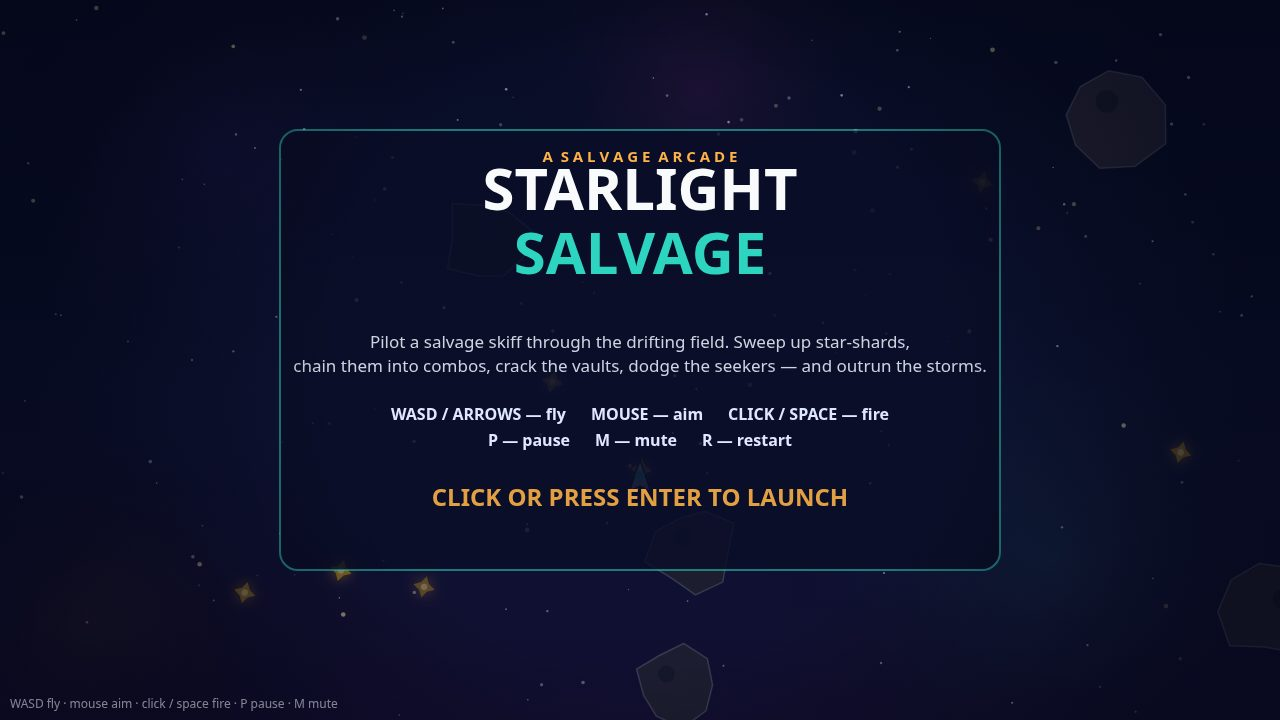
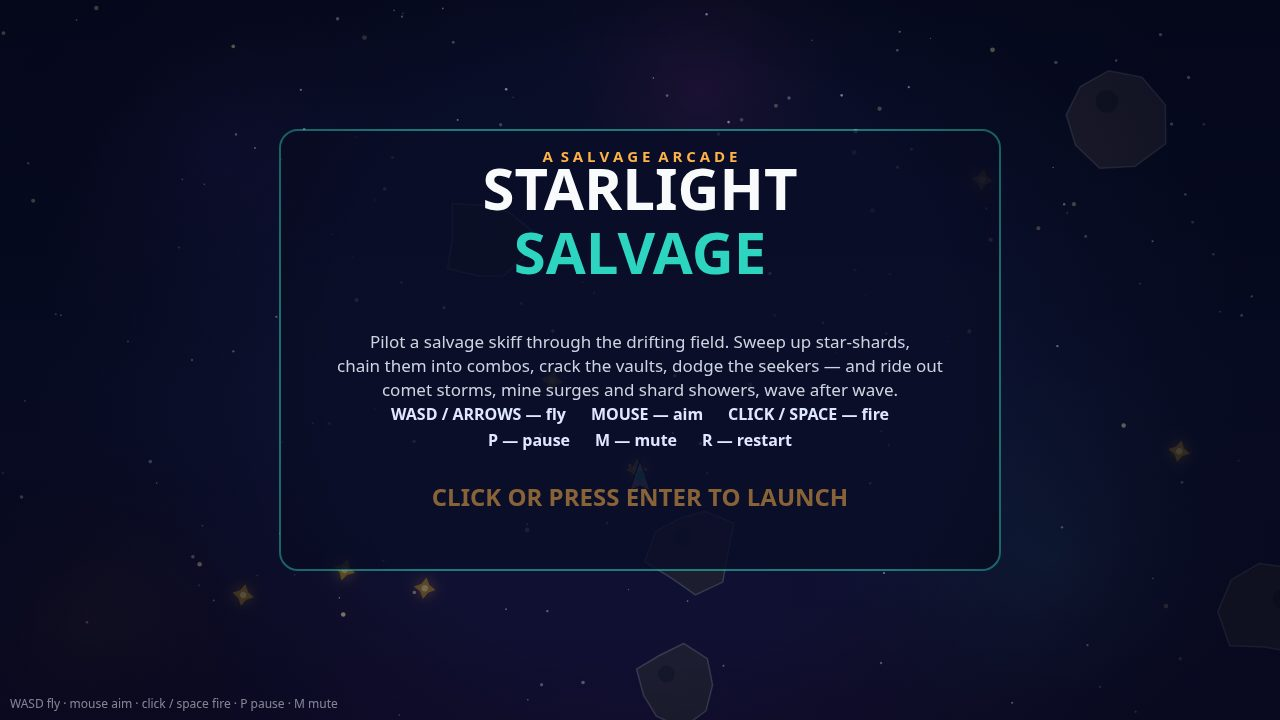
Starlight Salvage v3: wave cycle, telegraphed hunter lunge, nova pickup
- Waves now cycle three themes: comet storm every 3rd wave, mine surge
  on %3==1, shard shower on %3==2, with the theme named under WAVE in
  the HUD and announced by a centre banner
- Seeker drones telegraph their lunge: a 0.4s wind-up shown by a pulsing
  red ring, then a wave-scaled lunge (1.18x at wave 2 up to 1.39x at
  wave 8+) instead of a flat instant 1.25x
- Nova pickup: detonates every mine and hunter on the field at once,
  each still paying its points, with flash and shake
- Title copy names the wave cycle; play shot staged at wave 5 (shard
  shower) with a nova pickup in frame
- Play-test 20/20 with zero page errors (4 new checks), screenshots
  re-taken and viewed, main.ts twice byte-identical

Changed region(s): [[0.2188, 0.4889, 0.7812, 0.55], [0.3125, 0.6722, 0.6562, 0.7028]]

diff --git a/game/src/enemies.js b/game/src/enemies.js
@@ -94,7 +94,7 @@ export function updateEnemies(state, dt, audio, spawnParticles, addText, onGameO
           // One in eight mines drops a pickup.
           if (state.rng() < 0.12) {
             const roll = state.rng();
-            spawnPickup(state, roll < 0.34 ? 'shield' : roll < 0.67 ? 'overdrive' : 'magnet');
+            spawnPickup(state, roll < 0.28 ? 'shield' : roll < 0.52 ? 'overdrive' : roll < 0.76 ? 'magnet' : 'nova');
           }
         }
         break;
@@ -218,9 +218,37 @@ export function updateEnemies(state, dt, audio, spawnParticles, addText, onGameO
     const pk = state.pickups[i];
     const rr = pk.r + p.r;
     if (dist2(pk.x, pk.y, p.x, p.y) < rr * rr) {
-      applyPickup(state, pk.kind, audio);
-      addText(pk.x, pk.y - 12, pk.kind === 'shield' ? 'SHIELD UP' : 'OVERDRIVE', '#2dd4bf');
-      spawnParticles('spark', pk.x, pk.y, 0, 0, '#2dd4bf');
+      if (pk.kind === 'nova') {
+        // Nova: every mine and hunter on the field detonates at once, and
+        // each one still pays its points. The flash is the point.
+        let cleared = 0;
+        for (let j = state.mines.length - 1; j >= 0; j--) {
+          const m = state.mines[j];
+          spawnParticles('burst', m.x, m.y, 0, 0, '#f59e0b');
+          addScore(state, m.heavy ? 250 : 100);
+          state.minesDestroyed += 1;
+          removeAt(state.mines, j);
+          cleared++;
+        }
+        for (let j = state.hunters.length - 1; j >= 0; j--) {
+          const h = state.hunters[j];
+          spawnParticles('burst', h.x, h.y, 0, 0, '#ef4444');
+          addScore(state, 200);
+          removeAt(state.hunters, j);
+          cleared++;
+        }
+        state.flash = 0.3;
+        state.shake = Math.max(state.shake, 12);
+        showMessage(state, 'NOVA!  ' + cleared + ' CLEARED', 1.6);
+        audio.explosion(true);
+        addText(pk.x, pk.y - 12, 'NOVA!', '#fbbf24');
+        spawnParticles('burst', pk.x, pk.y, 0, 0, '#fbbf24');
+      } else {
+        applyPickup(state, pk.kind, audio);
+        const label = pk.kind === 'shield' ? 'SHIELD UP' : pk.kind === 'magnet' ? 'MAGNET!' : 'OVERDRIVE';
+        addText(pk.x, pk.y - 12, label, '#2dd4bf');
+        spawnParticles('spark', pk.x, pk.y, 0, 0, '#2dd4bf');
+      }
       removeAt(state.pickups, i);
     }
   }
@@ -325,9 +353,9 @@ export function drawPickup(ctx, pk) {
   ctx.translate(pk.x, pk.y);
   const bob = Math.sin(pk.phase) * 2;
   ctx.translate(0, bob);
-  ctx.shadowColor = '#2dd4bf';
+  ctx.shadowColor = pk.kind === 'nova' ? '#f59e0b' : '#2dd4bf';
   ctx.shadowBlur = 12;
-  ctx.fillStyle = pk.kind === 'shield' ? '#0d9488' : pk.kind === 'magnet' ? '#7c3aed' : '#db2777';
+  ctx.fillStyle = pk.kind === 'shield' ? '#0d9488' : pk.kind === 'magnet' ? '#7c3aed' : pk.kind === 'nova' ? '#b45309' : '#db2777';
   ctx.beginPath();
   ctx.arc(0, 0, pk.r, 0, Math.PI * 2);
   ctx.fill();
@@ -339,7 +367,7 @@ export function drawPickup(ctx, pk) {
   ctx.font = 'bold 13px system-ui, sans-serif';
   ctx.textAlign = 'center';
   ctx.textBaseline = 'middle';
-  ctx.fillText(pk.kind === 'shield' ? 'S' : pk.kind === 'magnet' ? 'M' : 'O', 0, 1);
+  ctx.fillText(pk.kind === 'shield' ? 'S' : pk.kind === 'magnet' ? 'M' : pk.kind === 'nova' ? 'N' : 'O', 0, 1);
   ctx.restore();
 }
 

diff --git a/game/src/hunter.js b/game/src/hunter.js
@@ -11,6 +11,14 @@ const BASE_SPEED = 150;
 const SPEED_PER_WAVE = 9;
 const MAX_SPEED = 245;
 const TURN_RATE = 2.6;
+// Lunge wind-up: a seeker that closes in must telegraph for 0.4 s before
+// it shoots forward, so the lunge is always dodgeable — and it bites
+// harder as the waves climb.
+const LUNGE_RANGE = 260;
+const LUNGE_WINDUP = 0.4;
+const LUNGE_BASE = 1.15;
+const LUNGE_PER_WAVE = 0.03;
+const LUNGE_MAX_WAVE = 8;
 
 export function createHunter(state, x, y) {
   const speed = Math.min(BASE_SPEED + state.wave * SPEED_PER_WAVE, MAX_SPEED);
@@ -23,10 +31,13 @@ export function createHunter(state, x, y) {
     wobble: state.rng() * Math.PI * 2,
     rot: 0,
     pulse: 0,
+    lungeT: 0,
   };
 }
 
 // Steer toward the skiff, capped turn rate, sine wobble on the heading.
+// Inside lunge range the drone winds up for LUNGE_WINDUP seconds (the ring
+// in drawHunter shows it), then shoots in at a wave-scaled speed.
 export function updateHunters(state, dt) {
   const p = state.player;
   if (!p) return;
@@ -36,7 +47,13 @@ export function updateHunters(state, dt) {
     const turn = clamp(diff, -TURN_RATE * dt, TURN_RATE * dt);
     h.angle += turn;
     h.wobble += dt * 3.1;
-    const lunge = Math.hypot(p.x - h.x, p.y - h.y) < 260 ? 1.25 : 1;
+    if (Math.hypot(p.x - h.x, p.y - h.y) < LUNGE_RANGE) {
+      h.lungeT = (h.lungeT || 0) + dt;
+    } else {
+      h.lungeT = 0;
+    }
+    const lungeMax = LUNGE_BASE + Math.min(state.wave, LUNGE_MAX_WAVE) * LUNGE_PER_WAVE;
+    const lunge = h.lungeT > LUNGE_WINDUP ? lungeMax : 1;
     const wob = Math.sin(h.wobble) * 0.35;
     h.x += Math.cos(h.angle + wob) * h.speed * lunge * dt;
     h.y += Math.sin(h.angle + wob) * h.speed * lunge * dt;
@@ -79,6 +96,19 @@ export function drawHunter(ctx, h, time) {
   ctx.arc(6, 0, 3.4, 0, Math.PI * 2);
   ctx.fill();
   ctx.restore();
+  // Lunge wind-up: while the drone is winding up, a pulsing red ring warns
+  // the skiff before it shoots in.
+  const lt = h.lungeT || 0;
+  if (lt > 0 && lt <= 0.4) {
+    ctx.save();
+    ctx.globalAlpha = 0.45 + Math.sin(h.pulse * 3) * 0.25;
+    ctx.strokeStyle = '#ef4444';
+    ctx.lineWidth = 2;
+    ctx.beginPath();
+    ctx.arc(h.x, h.y, 22 + Math.sin(h.pulse * 3) * 3, 0, Math.PI * 2);
+    ctx.stroke();
+    ctx.restore();
+  }
   // Damaged hunters spark: one hit left is visible from across the field.
   if (h.hp === 1) {
     ctx.save();

diff --git a/game/src/hud.js b/game/src/hud.js
@@ -103,7 +103,7 @@ export function drawHud(ctx, state) {
     ctx.fillText('COMBO x' + state.combo, 20, 70);
     bar(ctx, 20, 98, 120, 8, state.comboTimer / COMBO_WINDOW, '#ffb347');
   }
-  // Wave and shards, top centre.
+  // Wave and shards, top centre — with the wave's theme underneath.
   ctx.textAlign = 'center';
   ctx.fillStyle = '#e0e7ff';
   ctx.font = 'bold 18px system-ui, sans-serif';
@@ -111,6 +111,10 @@ export function drawHud(ctx, state) {
   ctx.fillStyle = '#94a3b8';
   ctx.font = '13px system-ui, sans-serif';
   ctx.fillText('SHARDS ' + state.shardsCollected + '   MINES DOWN ' + state.minesDestroyed, WORLD_W / 2, 40);
+  const typeColor = state.waveType === 'COMET STORM' ? '#fb923c' : state.waveType === 'MINE SURGE' ? '#f87171' : state.waveType === 'SHARD SHOWER' ? '#fbbf24' : '#94a3b8';
+  ctx.fillStyle = typeColor;
+  ctx.font = 'bold 12px system-ui, sans-serif';
+  ctx.fillText(state.waveType || 'SALVAGE', WORLD_W / 2, 62);
   // Lives, top right: little skiffs.
   ctx.textAlign = 'right';
   ctx.fillStyle = '#f8fafc';
@@ -202,7 +206,8 @@ export function drawTitle(ctx, state) {
   ctx.fillStyle = '#cbd5e1';
   ctx.font = '17px system-ui, sans-serif';
   ctx.fillText('Pilot a salvage skiff through the drifting field. Sweep up star-shards,', WORLD_W / 2, 348);
-  ctx.fillText('chain them into combos, crack the vaults, dodge the seekers — and outrun the storms.', WORLD_W / 2, 372);
+  ctx.fillText('chain them into combos, crack the vaults, dodge the seekers — and ride out', WORLD_W / 2, 372);
+  ctx.fillText('comet storms, mine surges and shard showers, wave after wave.', WORLD_W / 2, 396);
   ctx.fillStyle = '#e0e7ff';
   ctx.font = 'bold 16px system-ui, sans-serif';
   ctx.fillText('WASD / ARROWS — fly      MOUSE — aim      CLICK / SPACE — fire', WORLD_W / 2, 420);

diff --git a/game/src/main.js b/game/src/main.js
@@ -53,6 +53,7 @@ function startGame() {
   state.lives = 3;
   state.wave = 1;
   state.waveTimer = 0;
+  state.waveType = 'SALVAGE';
   state.shardsCollected = 0;
   state.minesDestroyed = 0;
   state.storm = false;
@@ -193,13 +194,15 @@ function arrangeShot(kind) {
   if (kind === 'title') return; // title is the boot screen already
   startGame();
   if (kind === 'play') {
-    // A busy mid-game moment: combo already running, mines in view.
+    // A busy mid-game moment: combo already running, mines in view, and the
+    // wave-5 shard shower theme showing under the wave number.
     state.score = 2450;
     state.combo = 5;
     state.comboTimer = 2.95;
     state.shardsCollected = 23;
     state.minesDestroyed = 6;
-    state.wave = 2;
+    state.wave = 5;
+    state.waveType = 'SHARD SHOWER';
     state.player.x = 560;
     state.player.y = 400;
     state.player.vx = 120;
@@ -207,6 +210,8 @@ function arrangeShot(kind) {
     spawnMine(state, true);
     for (let i = 0; i < 5; i++) spawnShard(state);
     spawnPickup(state, 'shield');
+    // A nova pickup, placed where it reads in the frame.
+    state.pickups.push({ x: 920, y: 200, vx: 0, vy: 0, r: 14, kind: 'nova', phase: 0 });
     spawnVault(state);
     state.hunters.push(createHunter(state, 1000, 120));
     // A few seconds of live play so bolts and particles are mid-flight.
@@ -241,6 +246,7 @@ function arrangeShot(kind) {
     state.shardsCollected = 61;
     state.minesDestroyed = 18;
     state.wave = 3;
+    state.waveType = 'COMET STORM';
     state.player.x = 640;
     state.player.y = 430;
     state.player.invuln = 999; // the screenshot staging must not cost a life

diff --git a/game/src/world.js b/game/src/world.js
@@ -156,7 +156,7 @@ export function spawnPickup(state, kind) {
     vx: pickRng(rng, -10, 10),
     vy: pickRng(rng, -8, 8),
     r: 14,
-    kind, // 'shield' | 'overdrive'
+    kind, // 'shield' | 'overdrive' | 'magnet' | 'nova'
     phase: rng() * Math.PI * 2,
   });
 }
@@ -185,12 +185,23 @@ export function updateWorld(state, dt, audio) {
     for (let i = 0; i < 5; i++) spawnShard(state);
     spawnVault(state);
     if (state.wave % 3 === 0) {
+      // Comet storm: the sky falls for eight seconds.
+      state.waveType = 'COMET STORM';
       state.stormWarnTimer = 2.0;
       showMessage(state, 'COMET STORM INCOMING', 2.0);
       audio.storm();
+    } else if (state.wave % 3 === 1) {
+      // Mine surge: a wall of mines floods in at once — shoot or weave.
+      state.waveType = 'MINE SURGE';
+      for (let i = 0; i < 8; i++) spawnMine(state, state.rng() < 0.2);
+      showMessage(state, 'MINE SURGE!', 1.8);
+      audio.waveClear();
     } else {
-      showMessage(state, 'WAVE ' + state.wave, 1.6);
-      if (state.wave % 2 === 0) audio.waveClear();
+      // Shard shower: a burst of shards rains across the field — chase the chain.
+      state.waveType = 'SHARD SHOWER';
+      for (let i = 0; i < 10; i++) spawnShard(state);
+      showMessage(state, 'SHARD SHOWER!', 1.8);
+      audio.waveClear();
     }
   }
 

diff --git a/game/src/state.js b/game/src/state.js
@@ -22,6 +22,7 @@ export function createState(seed) {
     lives: 3,
     wave: 1,
     waveTimer: 0,
+    waveType: 'SALVAGE',
     shardsCollected: 0,
     minesDestroyed: 0,
     storm: false,

diff --git a/README.md b/README.md
@@ -4,7 +4,7 @@
 [![rank](https://make.fun/badge/best-game-01/Krwanz/best-game-01/rank.svg)](https://make.fun/bounty/best-game-01/leaderboard?utm_source=github&utm_medium=readme&utm_campaign=best-game-01)
 [![reward](https://make.fun/badge/best-game-01/Krwanz/best-game-01/reward.svg)](https://make.fun/bounty/best-game-01?utm_source=github&utm_medium=readme&utm_campaign=best-game-01)
 
-**Starlight Salvage** — a top-down 2D canvas arcade game. Pilot a salvage skiff through a drifting asteroid field at dusk: sweep up glowing star-shards and chain them into combos, crack vault shards ringed by mines for +500, dodge seeker drones that hunt the skiff, blast drifting mines, ride out comet storms, and keep the skiff alive for one more wave. Three lives, escalating waves, shield, overdrive and magnet pickups, a best score that persists, and a full start–play–pause–game-over loop with WebAudio-synthesised sound. All art is procedural canvas drawing; no network anywhere.
+**Starlight Salvage** — a top-down 2D canvas arcade game. Pilot a salvage skiff through a drifting asteroid field at dusk: sweep up glowing star-shards and chain them into combos, crack vault shards ringed by mines for +500, dodge seeker drones that hunt the skiff — and telegraph their lunge with a red ring before they shoot in — blast drifting mines, grab a nova pickup to detonate the whole field at once, and ride out the wave cycle: comet storms, mine surges and shard showers, one after another. Three lives, escalating waves, shield, overdrive, magnet and nova pickups, a best score that persists, and a full start–play–pause–game-over loop with WebAudio-synthesised sound. All art is procedural canvas drawing; no network anywhere.
 
 ## Run it
 
@@ -19,10 +19,10 @@ Controls: WASD / arrows to fly, mouse to aim, click or Space to fire, P to pause
 
 - `game/src/main.js` — the fixed-step loop, screen flow, and shot presets
 - `game/src/state.js` — the one state object every module shares
-- `game/src/world.js` — parallax starfield, asteroids, vaults, and the wave director
+- `game/src/world.js` — parallax starfield, asteroids, vaults, and the wave director (comet storm / mine surge / shard shower cycle)
 - `game/src/player.js` — the skiff: thrust physics, firing, hits, pickups
-- `game/src/enemies.js` — shards, mines, comets, pickups, and collisions
-- `game/src/hunter.js` — the seeker drone: steering, lunge, and drawing
+- `game/src/enemies.js` — shards, mines, comets, pickups (shield, overdrive, magnet, nova), and collisions
+- `game/src/hunter.js` — the seeker drone: steering, telegraphed lunge, and drawing
 - `game/src/particles.js` — pooled sparks, bursts, and floating score text
 - `game/src/hud.js` — backdrop, HUD, and the title / pause / game-over screens
 - `game/src/audio.js` — every sound synthesised with WebAudio, no audio files
